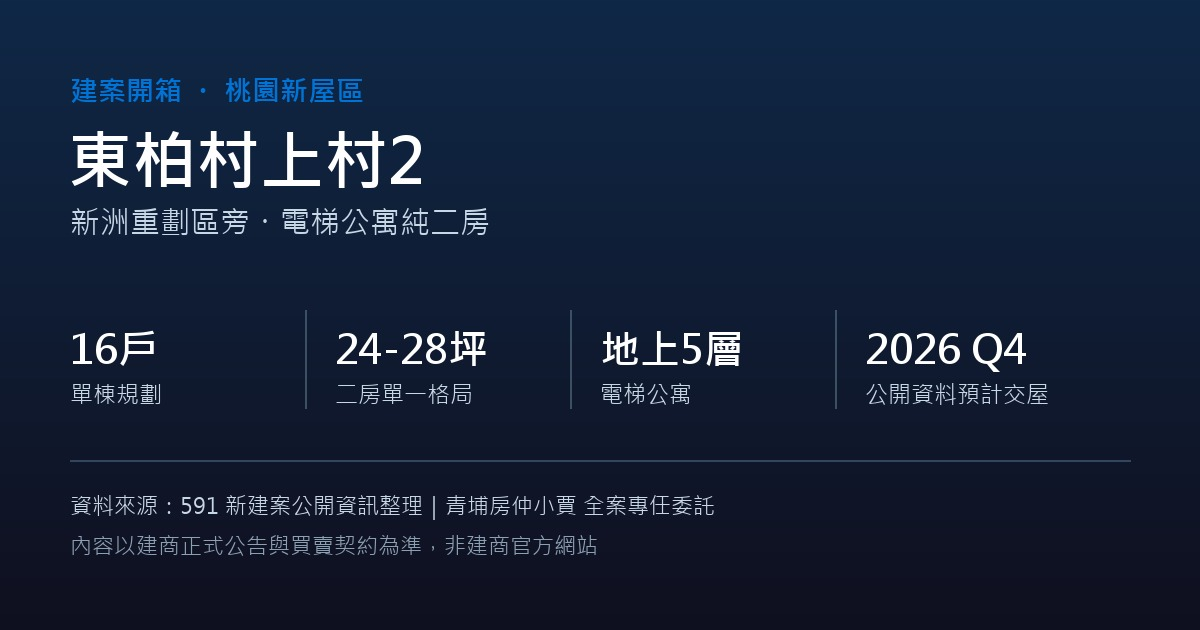
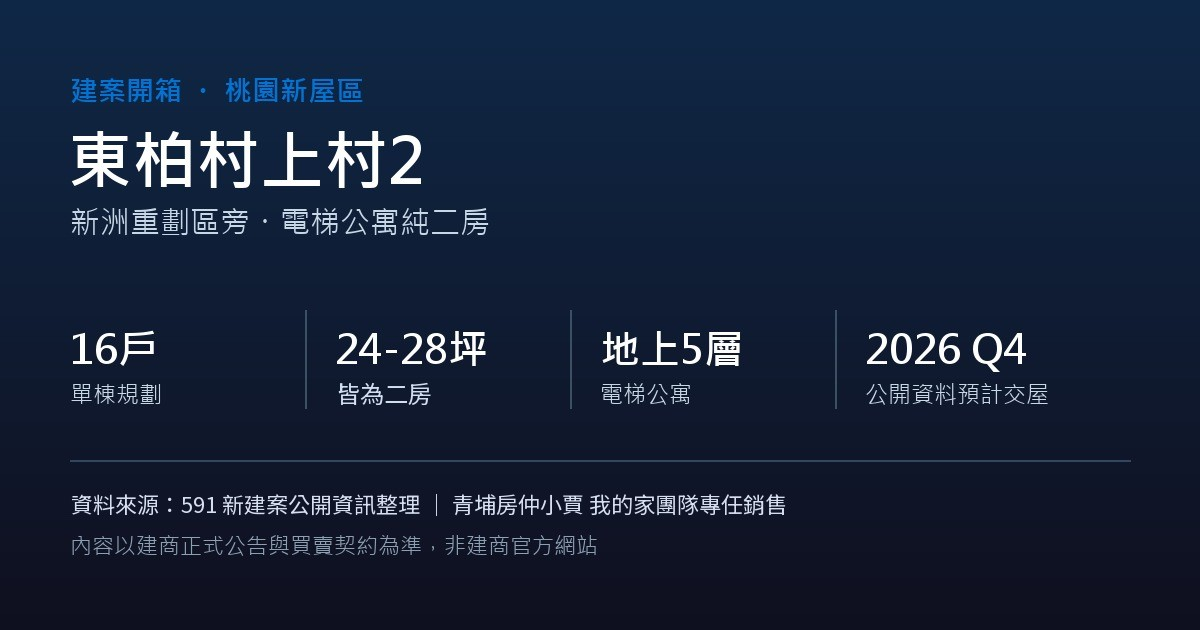
東柏頁面：「單一格局」改為「皆為二房，共A到D四種配置」（含首頁卡片、建案列表、FAQ、封面圖），封面專任字樣改為我的家團隊專任銷售

Changed region(s): [[0.0617, 0.7841, 0.6783, 0.8143], [0.2775, 0.6032, 0.4008, 0.6635]]

diff --git a/case/cunshangcun2.html b/case/cunshangcun2.html
@@ -8,25 +8,25 @@
 <link rel="icon" type="image/png" sizes="32x32" href="../assets/img/favicon-32.png">
 <link rel="icon" type="image/png" sizes="16x16" href="../assets/img/favicon-16.png">
 <link rel="shortcut icon" href="/favicon.ico">
-<meta name="description" content="東柏村上村2：桃園新屋區電梯公寓，1棟16戶，單一格局二房24.27~27.9坪。本案由我的家團隊專任銷售，整理公開資料與購買前要問的事。">
+<meta name="description" content="東柏村上村2：桃園新屋區電梯公寓，1棟16戶，皆為二房、共A到D四種配置，24.27~27.9坪。本案由我的家團隊專任銷售，整理公開資料與購買前要問的事。">
 <link rel="canonical" href="https://justinchou168.com/case/cunshangcun2.html">
 <meta property="og:type" content="article">
 <meta property="og:locale" content="zh_TW">
 <meta property="og:site_name" content="青埔房仲小賈">
 <meta property="og:title" content="東柏村上村2開箱｜桃園新屋區電梯公寓純二房｜青埔房仲小賈">
-<meta property="og:description" content="東柏村上村2：桃園新屋區電梯公寓，1棟16戶，單一格局二房24.27~27.9坪。本案由我的家團隊專任銷售，整理公開資料與購買前要問的事。">
+<meta property="og:description" content="東柏村上村2：桃園新屋區電梯公寓，1棟16戶，皆為二房、共A到D四種配置，24.27~27.9坪。本案由我的家團隊專任銷售，整理公開資料與購買前要問的事。">
 <meta property="og:url" content="https://justinchou168.com/case/cunshangcun2.html">
 <meta property="og:image" content="https://justinchou168.com/assets/img/covers/case-cunshangcun2.jpg">
 <meta name="twitter:card" content="summary_large_image">
 <meta name="twitter:title" content="東柏村上村2開箱｜桃園新屋區電梯公寓純二房｜青埔房仲小賈">
-<meta name="twitter:description" content="東柏村上村2：桃園新屋區電梯公寓，1棟16戶，單一格局二房24.27~27.9坪。本案由我的家團隊專任銷售，整理公開資料與購買前要問的事。">
+<meta name="twitter:description" content="東柏村上村2：桃園新屋區電梯公寓，1棟16戶，皆為二房、共A到D四種配置，24.27~27.9坪。本案由我的家團隊專任銷售，整理公開資料與購買前要問的事。">
 <meta name="twitter:image" content="https://justinchou168.com/assets/img/covers/case-cunshangcun2.jpg">
 <script type="application/ld+json">
 {
   "@context": "https://schema.org",
   "@type": "Article",
   "headline": "東柏村上村2開箱｜桃園新屋區電梯公寓純二房",
-  "description": "東柏村上村2：桃園新屋區電梯公寓，1棟16戶，單一格局二房24.27~27.9坪。本案由我的家團隊專任銷售，整理公開資料與購買前要問的事。",
+  "description": "東柏村上村2：桃園新屋區電梯公寓，1棟16戶，皆為二房、共A到D四種配置，24.27~27.9坪。本案由我的家團隊專任銷售，整理公開資料與購買前要問的事。",
   "datePublished": "2026-10-20",
   "dateModified": "2026-10-20",
   "inLanguage": "zh-Hant-TW",
@@ -54,7 +54,7 @@
   "mainEntity": [
     {"@type": "Question", "name": "東柏村上村2在哪裡？離青埔近嗎？", "acceptedAnswer": {"@type": "Answer", "text": "基地位於桃園市新屋區新洲三街19號旁，屬於新屋區新洲重劃區一帶，鄰近觀音、過嶺，跟青埔特定區不是同一個生活圈，開車距離需另外估算。適合想在大桃園找低總價、全新電梯公寓的客群，不是主打青埔機能的案子。"}},
     {"@type": "Question", "name": "這個案子有捷運或高鐵嗎？", "acceptedAnswer": {"@type": "Answer", "text": "依591公開資料，本案周邊沒有捷運、高鐵或台鐵系統，主要交通是台66號快速道路。通勤仰賴開車或快速道路接駁，這點要先確認是否符合你的通勤需求。"}},
-    {"@type": "Question", "name": "格局只有二房嗎？坪數多大？", "acceptedAnswer": {"@type": "Answer", "text": "依591公開資料，全案規劃單一格局：二房（24.27~27.9坪），1棟16戶，沒有三房或其他坪數選擇。適合小家庭、頂客族或置產型買方，不適合需要三房以上空間的家庭。"}},
+    {"@type": "Question", "name": "格局只有二房嗎？坪數多大？", "acceptedAnswer": {"@type": "Answer", "text": "依591公開資料與建商格局圖，全案皆為二房（24.27~27.9坪），共A到D四種配置，1棟16戶，沒有三房或其他房數選擇。適合小家庭、頂客族或置產型買方，不適合需要三房以上空間的家庭。"}},
     {"@type": "Question", "name": "總價大概多少？貸款成數呢？", "acceptedAnswer": {"@type": "Answer", "text": "依591公開資料，單價約38萬/坪，單戶總價約888萬，貸款成數約75%（實際依個人條件與銀行核貸為準）。車位價格頁面標示「價格待定」，請直接向我確認最新銷售狀況與付款方式。"}},
     {"@type": "Question", "name": "是預售屋嗎？什麼時候交屋？", "acceptedAnswer": {"@type": "Answer", "text": "是預售屋，依591公開資料預計2026年第四季交屋。依平均地權條例第47-4條，2023年7月1日起簽訂的預售屋買賣契約不得換約，購買前請以「持有到交屋」規劃資金。實際以契約與主管機關規定為準。"}},
     {"@type": "Question", "name": "這是建商官方網站嗎？可以找你看屋嗎？", "acceptedAnswer": {"@type": "Answer", "text": "不是，這是我整理的建案公開資料頁，不是建商官方網站。本案由我的家團隊專任銷售；想看屋或問最新銷控，歡迎加LINE告訴我需求，我會直接回覆並安排。"}}
@@ -109,12 +109,12 @@
     <header class="tool-head">
       <span class="eyebrow">建案開箱・桃園新屋區・我的家團隊專任銷售</span>
       <h1>東柏村上村2｜新屋區電梯公寓純二房</h1>
-      <p>1棟16戶、單一格局二房24.27~27.9坪，近新洲重劃區。本案由我的家團隊專任銷售，以下是我整理的公開資料，購屋前要再確認的事也一併列出。</p>
+      <p>1棟16戶、皆為二房共A到D四種配置，24.27~27.9坪，近新洲重劃區。本案由我的家團隊專任銷售，以下是我整理的公開資料，購屋前要再確認的事也一併列出。</p>
     </header>
 
     <div class="stat-strip" style="margin:24px 0 36px;">
       <div><span class="num">16戶</span><span class="lbl">單棟規劃</span></div>
-      <div><span class="num">24.27~27.9坪</span><span class="lbl">二房單一格局</span></div>
+      <div><span class="num">24.27~27.9坪</span><span class="lbl">皆為二房・A~D四種配置</span></div>
       <div><span class="num">地上5層</span><span class="lbl">電梯公寓</span></div>
       <div><span class="num">888萬/戶</span><span class="lbl">公開資料總價（38萬/坪）</span></div>
       <div><span class="num">2026 Q4</span><span class="lbl">公開資料預計交屋</span></div>
@@ -123,7 +123,7 @@
     <section class="sec" id="highlights">
       <h2>這個案子適合誰？</h2>
       <div class="split two">
-        <div class="pcard"><span class="tag">01 / 格局單純</span><h3>全案只有一種格局</h3><p>二房24.27~27.9坪，不用在多種坪數裡糾結，適合小家庭、頂客族或置產型買方。</p></div>
+        <div class="pcard"><span class="tag">01 / 格局單純</span><h3>全案皆為二房，共A到D四種配置</h3><p>24.27~27.9坪，不用在二房、三房之間糾結，適合小家庭、頂客族或置產型買方。</p></div>
         <div class="pcard"><span class="tag">02 / 低戶數</span><h3>1棟16戶，低密度</h3><p>全案僅16戶住家，電梯公寓型態，棟戶單純，鄰居組成相對單一。</p></div>
         <div class="pcard"><span class="tag">03 / 總價親民</span><h3>總價約888萬/戶</h3><p>相較青埔核心區動輒千萬以上，本案總價基期較低，適合預算有限、想先上車的買方。</p></div>
         <div class="pcard"><span class="tag">04 / 交通仰賴開車</span><h3>無捷運／高鐵，走台66線</h3><p>公開資料顯示鄰近沒有軌道運輸，通勤主要靠台66號快速道路，買之前要先確認通勤方式符合需求。</p></div>
@@ -147,7 +147,7 @@
         <tr><td>棟戶規劃</td><td>1幢1棟，16戶住家</td></tr>
         <tr><td>樓層規劃</td><td>地上5層（無地下室資訊）</td></tr>
         <tr><td>座向規劃</td><td>朝西北、朝東南</td></tr>
-        <tr><td>格局坪數</td><td>二房（24.27~27.9坪），單一格局</td></tr>
+        <tr><td>格局坪數</td><td>二房（24.27~27.9坪），皆為二房、共A到D四種配置</td></tr>
         <tr><td>結構工程</td><td>RC鋼筋混凝土</td></tr>
         <tr><td>建材配備</td><td>廚具：櫻花｜衛浴：TOTO</td></tr>
         <tr><td>車位規劃</td><td>平面式8個，車位配比約1:0.5</td></tr>
@@ -196,7 +196,7 @@
       <h2>常見問題</h2>
       <details><summary>東柏村上村2在哪裡？離青埔近嗎？</summary><div>基地位於桃園市新屋區新洲三街19號旁，屬於新屋區新洲重劃區一帶，鄰近觀音、過嶺，跟青埔特定區不是同一個生活圈，開車距離需另外估算。適合想在大桃園找低總價、全新電梯公寓的客群，不是主打青埔機能的案子。</div></details>
       <details><summary>這個案子有捷運或高鐵嗎？</summary><div>依591公開資料，本案周邊沒有捷運、高鐵或台鐵系統，主要交通是台66號快速道路。通勤仰賴開車或快速道路接駁，這點要先確認是否符合你的通勤需求。</div></details>
-      <details><summary>格局只有二房嗎？坪數多大？</summary><div>依591公開資料，全案規劃單一格局：二房（24.27~27.9坪），1棟16戶，沒有三房或其他坪數選擇。適合小家庭、頂客族或置產型買方，不適合需要三房以上空間的家庭。</div></details>
+      <details><summary>格局只有二房嗎？坪數多大？</summary><div>依591公開資料與建商格局圖，全案皆為二房（24.27~27.9坪），共A到D四種配置，1棟16戶，沒有三房或其他房數選擇。適合小家庭、頂客族或置產型買方，不適合需要三房以上空間的家庭。</div></details>
       <details><summary>總價大概多少？貸款成數呢？</summary><div>依591公開資料，單價約38萬/坪，單戶總價約888萬，貸款成數約75%（實際依個人條件與銀行核貸為準）。車位價格頁面標示「價格待定」，請直接向我確認最新銷售狀況與付款方式。</div></details>
       <details><summary>是預售屋嗎？什麼時候交屋？</summary><div>是預售屋，依591公開資料預計2026年第四季交屋。依平均地權條例第47-4條，2023年7月1日起簽訂的預售屋買賣契約不得換約，購買前請以「持有到交屋」規劃資金。實際以契約與主管機關規定為準。</div></details>
       <details><summary>這是建商官方網站嗎？可以找你看屋嗎？</summary><div>不是，這是我整理的建案公開資料頁，不是建商官方網站。本案由我的家團隊專任銷售；想看屋或問最新銷控，歡迎加LINE告訴我需求，我會直接回覆並安排。</div></details>

diff --git a/case/index.html b/case/index.html
@@ -111,7 +111,7 @@
     </header>
 
     <section class="sec">
-      <div class="tool-grid"><a class="tool-card" href="zhongli-ruoyin.html" style="padding:0;overflow:hidden"><img src="../assets/img/covers/case-zhongli-ruoyin.jpg" alt="" width="1200" height="630" loading="lazy" style="width:100%;height:auto;display:block"><div style="padding:16px 18px 18px"><span class="tag" style="font-size:.76rem;font-weight:700;color:var(--orange);letter-spacing:.06em">建案開箱｜青埔 A19</span><h3 style="margin:6px 0;text-wrap:balance">中麗若隱開箱｜青埔 A19 旁 39 坪純三房</h3><p>39 坪均質純三房、53 戶低戶數，近機捷 A19。把公開資料與購買前要問的事一次整理。</p><span class="go">閱讀全文 →</span></div></a><a class="tool-card" href="cunshangcun2.html" style="padding:0;overflow:hidden"><img src="../assets/img/covers/case-cunshangcun2.jpg" alt="" width="1200" height="630" loading="lazy" style="width:100%;height:auto;display:block"><div style="padding:16px 18px 18px"><span class="tag" style="font-size:.76rem;font-weight:700;color:var(--orange);letter-spacing:.06em">建案開箱｜桃園新屋區</span><h3 style="margin:6px 0;text-wrap:balance">東柏村上村2｜新屋區電梯公寓純二房</h3><p>1棟16戶、單一格局二房24.27~27.9坪，我的家團隊專任銷售。把公開資料與購買前要問的事一次整理。</p><span class="go">閱讀全文 →</span></div></a></div>
+      <div class="tool-grid"><a class="tool-card" href="zhongli-ruoyin.html" style="padding:0;overflow:hidden"><img src="../assets/img/covers/case-zhongli-ruoyin.jpg" alt="" width="1200" height="630" loading="lazy" style="width:100%;height:auto;display:block"><div style="padding:16px 18px 18px"><span class="tag" style="font-size:.76rem;font-weight:700;color:var(--orange);letter-spacing:.06em">建案開箱｜青埔 A19</span><h3 style="margin:6px 0;text-wrap:balance">中麗若隱開箱｜青埔 A19 旁 39 坪純三房</h3><p>39 坪均質純三房、53 戶低戶數，近機捷 A19。把公開資料與購買前要問的事一次整理。</p><span class="go">閱讀全文 →</span></div></a><a class="tool-card" href="cunshangcun2.html" style="padding:0;overflow:hidden"><img src="../assets/img/covers/case-cunshangcun2.jpg?v=2" alt="" width="1200" height="630" loading="lazy" style="width:100%;height:auto;display:block"><div style="padding:16px 18px 18px"><span class="tag" style="font-size:.76rem;font-weight:700;color:var(--orange);letter-spacing:.06em">建案開箱｜桃園新屋區</span><h3 style="margin:6px 0;text-wrap:balance">東柏村上村2｜新屋區電梯公寓純二房</h3><p>1棟16戶、皆為二房共A到D四種配置，24.27~27.9坪，我的家團隊專任銷售。把公開資料與購買前要問的事一次整理。</p><span class="go">閱讀全文 →</span></div></a></div>
       <p class="note" style="margin-top:14px">開箱內容依建商、銷售現場與政府公開資料整理，會標示資料日期與來源；每篇都會附上「要再向建商或契約確認」的項目。新的開箱陸續更新。</p>
     </section>
     <div class="callout" style="margin-top:30px"><strong>想看哪一個建案？</strong> 告訴我建案名稱，我整理公開資料與要問的問題，之後放上來。已經有想買的建案，也可以直接傳給我，我先幫你看哪裡要注意。</div>

diff --git a/index.html b/index.html
@@ -516,10 +516,10 @@
         <p>39 坪均質純三房、53 戶低戶數，近機捷 A19。整理公開資料、戶別格局、市場資料與要先向建商確認的事。</p>
         <a class="read-more-btn" href="case/zhongli-ruoyin.html">閱讀全文 →</a>
         <div class="status">資料整理：2026 年 9 月 6 日</div>
-      <div class="article"><img class="article-cover" src="assets/img/covers/case-cunshangcun2.jpg" alt="東柏村上村2開箱，桃園新屋區電梯公寓純二房" width="1200" height="630" loading="lazy">
+      <div class="article"><img class="article-cover" src="assets/img/covers/case-cunshangcun2.jpg?v=2" alt="東柏村上村2開箱，桃園新屋區電梯公寓純二房" width="1200" height="630" loading="lazy">
         <span class="tagline2">建案開箱｜桃園新屋區</span>
         <h3>東柏村上村2｜新屋區電梯公寓純二房</h3>
-        <p>1棟16戶、單一格局二房24.27~27.9坪，我的家團隊專任銷售。把公開資料與購買前要問的事一次整理。</p>
+        <p>1棟16戶、皆為二房共A到D四種配置，24.27~27.9坪，我的家團隊專任銷售。把公開資料與購買前要問的事一次整理。</p>
         <a class="read-more-btn" href="case/cunshangcun2.html">閱讀全文 →</a>
         <div class="status">資料整理：2026 年 10 月</div>
       </div>
